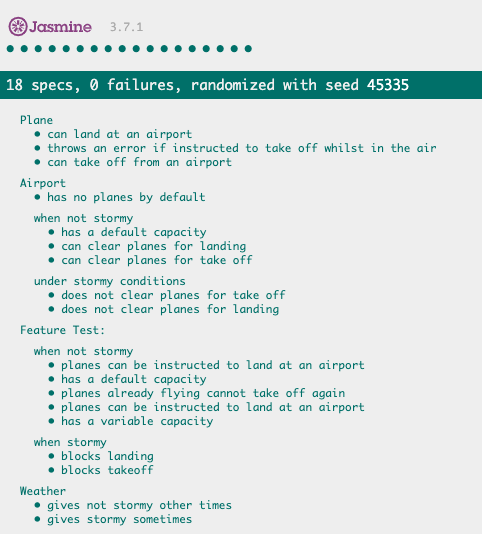
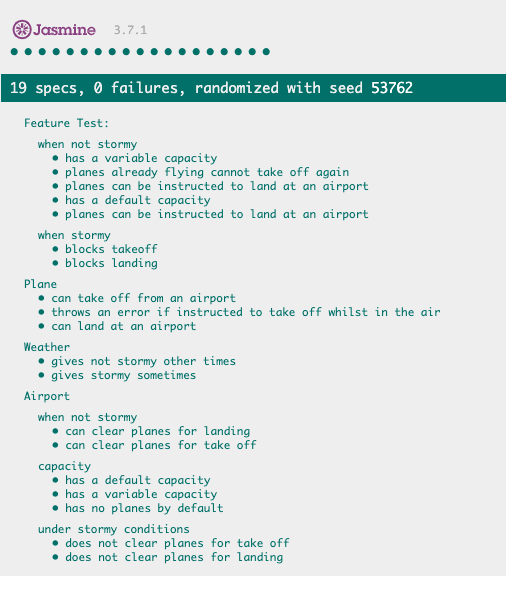
refactor

Changed region(s): [[0.0, 0.03, 1.0, 0.9888]]

diff --git a/spec/airportSpec.js b/spec/airportSpec.js
@@ -11,8 +11,25 @@ describe('Airport', function() {
    plane = jasmine.createSpyObj('plane', ['land']);
  });
 
- it('has no planes by default', function() {
-   expect(airport.planes()).toEqual([]);
+ describe('capacity', function(){
+  it('has no planes by default', function() {
+    expect(airport.planes()).toEqual([]);
+  });
+
+  it('has a default capacity', function() {
+    for(let i = 0; i < 20; i++) {
+      airport.clearForLanding(plane);
+    };
+    expect(function(){ airport.clearForLanding(plane); }).toThrowError('cannot land - airport full');
+  });
+  
+  it('has a variable capacity', function() {
+    airport = new Airport(weather,30)
+    for(let i = 0; i < 30; i++) {
+      airport.clearForLanding(plane);
+    };
+    expect(function(){ airport.clearForLanding(plane); }).toThrowError('cannot land - airport full');
+  });
  });
 
  describe('when not stormy', function() {
@@ -30,15 +47,6 @@ describe('Airport', function() {
    airport.clearForTakeOff(plane);
    expect(airport.planes()).not.toContain(plane)
   });
-
-  it('has a default capacity', function() {
-    for(let i = 0; i < 20; i++) {
-      airport.clearForLanding(plane);
-    };
-    expect(function(){ airport.clearForLanding(plane); }).toThrowError('cannot land - airport full');
-  });
-  
-
  });
 
   describe('under stormy conditions', function(){
